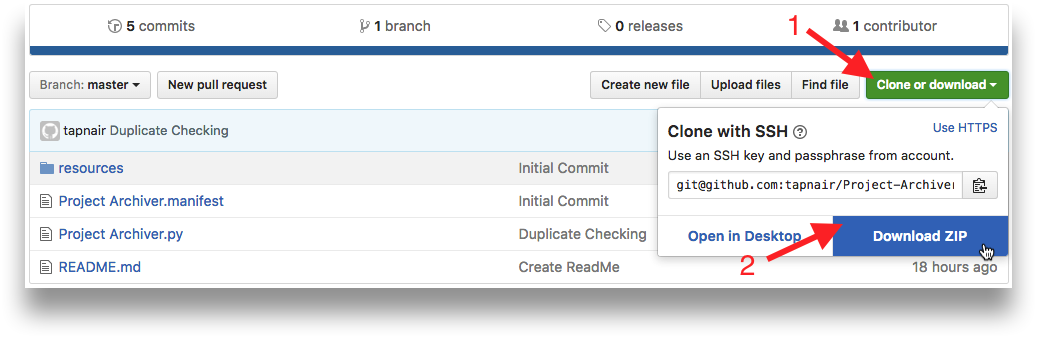
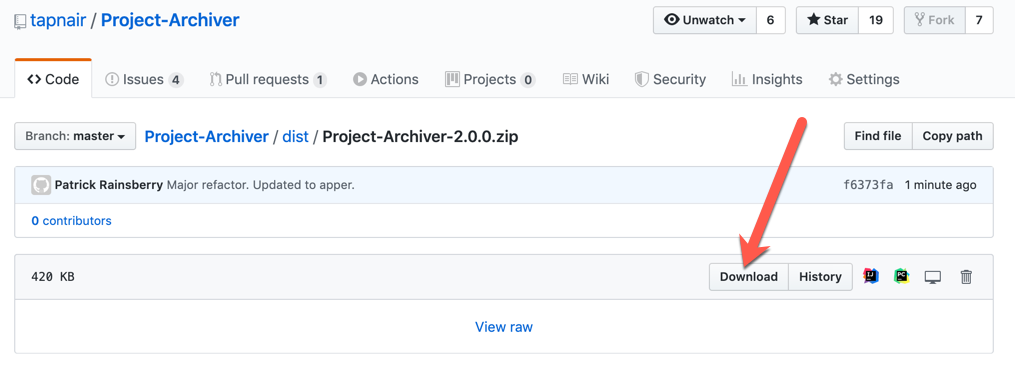
Updated Readme

diff --git a/README.md b/README.md
@@ -7,7 +7,10 @@ The archiver script will open all Fusion 360 3D data in a project and export it 
 ----
 
 ###How to install<a name="How-to-install"></a>
-Download the [latest distribution]()
+1. Click the latest link and download the [latest distribution](https://github.com/tapnair/Project-Archiver/tree/master/dist)
+![](Project-Archiver/resources/download.png)
+
+2. Unzip the archive to a permanent location on your computer
 
 ###Fusion 360  
 
@@ -26,7 +29,7 @@ Download the [latest distribution]()
      
 5. Click run.  
 6. Dismiss the Addins dialog.  
-7.  Click the ProjectArchiver Tab and you should see **Archive** Pane.
+7.  Click the ProjectArchiver Tab and you should see **Archive** Panel and command.
 
 	![](Project-Archiver/resources/button.png)
 
@@ -34,20 +37,19 @@ Download the [latest distribution]()
 
 ###How to use<a name="How-to-use"></a>
 
-Launch Fusion 360.
-Under the **Scripts and Addins** select Arcive-export.
 In the data panel navigate to the project you want to archive.
 The add-in will export all Fusion 360 files in the active project.
 
 ![](Project-Archiver/resources/dialog.png)
 
-The dialog shows you the **Project to Archive** which is the current active project.
-
 It then allows you to enter a path. Type in a path into the **Output Path** field.
 * For OSX this might be: **/Users/*username*/Desktop/Test/**
 * For Windows this might be something like **C:\Test**
 
-Finally under **Export Types** select the different files types you want to export.  You can select multiple types.
+Under **Export Types** select the different files types you want to export.  You can select multiple types.
+
+File Name Options allow you to specify the naming convention for output files.  
+If you select 'Document Name' you can choose whether or not to append the version number to the file name.
 
 Click **OK**.
 
